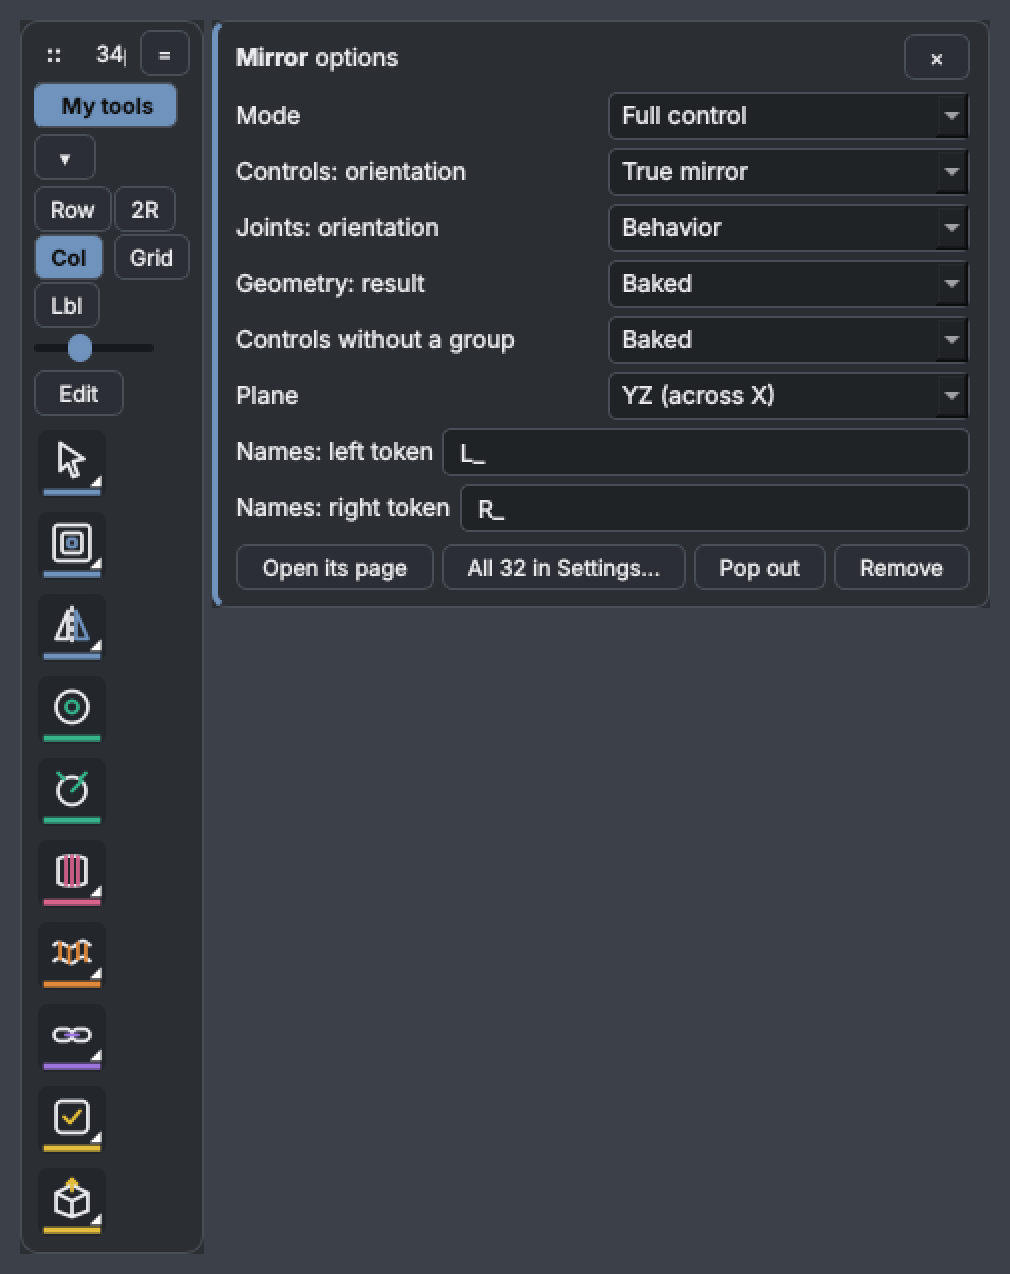
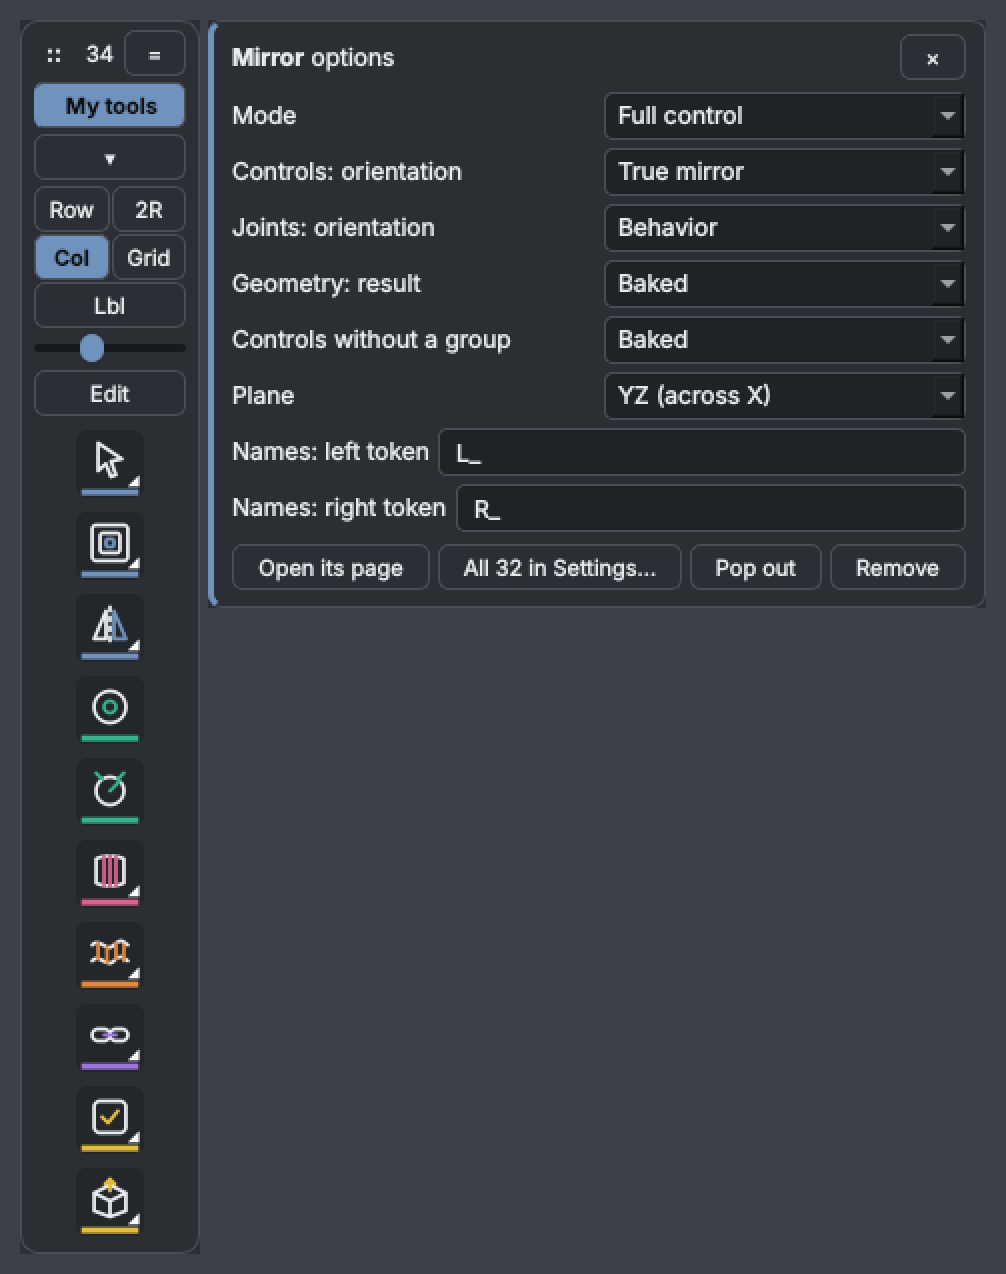
5.7.9 (in progress): the bar's column even; notes
Claude-Session: https://claude.ai/code/session_01XEQS6GUEdNtS6ejnva6duF

diff --git a/gus_rigtool/newui/favourites.py b/gus_rigtool/newui/favourites.py
@@ -576,13 +576,17 @@ class FavBar(QtWidgets.QWidget):
         root.setContentsMargins(7, 5, 7, 6)
         root.setSpacing(5)
         shape = self.shape()
+        lab = self.labels()                              # a column: one even width for everything (5.7.9, Gus)
+        self.rail = max((max(self.wanted_size() + 6, 52) if lab else self.wanted_size() + 4), 76)
         self.chrome = self._chrome(shape)
         root.addWidget(self.chrome)
         self.tiles = QtWidgets.QWidget()
         self.grid = QtWidgets.QGridLayout(self.tiles)
         self.grid.setContentsMargins(0, 0, 0, 0)
         self.grid.setSpacing(2)
-        self.grid.setAlignment(Qt.AlignLeft | Qt.AlignTop)      # the tiles side by side, not spread out
+        self.grid.setAlignment((Qt.AlignHCenter if shape == "col" else Qt.AlignLeft) | Qt.AlignTop)
+        if shape == "col":
+            self.tiles.setFixedWidth(self.rail)
         root.addWidget(self.tiles)
         if not hasattr(self, "strip"):
             self.strip = QtWidgets.QFrame(self, Qt.Tool | Qt.FramelessWindowHint)
@@ -658,16 +662,15 @@ class FavBar(QtWidgets.QWidget):
         lb.setChecked(self.labels())
         ml.addWidget(lb, 2 if col else 0, 0 if col else 5, 1, 2 if col else 1)
         lay.addWidget(modes)
-        if col:                                           # a column stays narrow (the mock-up's ~74 px rail)
+        if col:                                           # a column: everything the rail's width, evenly
             for w in list(self.mode_buttons.values()) + [lb]:
-                w.setStyleSheet("QToolButton { padding: 2px 3px; }")
-            box.setMaximumWidth(max(self.wanted_size() + 30, 78))
+                w.setStyleSheet("QToolButton { padding: 2px 0px; }")
         self.slider = QtWidgets.QSlider(Qt.Horizontal)
         self.slider.setRange(SIZE_MIN, SIZE_MAX)
         self.slider.setSingleStep(2)
         self.slider.setPageStep(4)
         self.slider.setValue(self.wanted_size())
-        self.slider.setFixedWidth(60 if col else 80)
+        self.slider.setFixedWidth(self.rail if col else 80)
         self.slider.setFocusPolicy(Qt.NoFocus)
         self.slider.setToolTip("The tiles' size (or Ctrl + mouse wheel over the bar)")
         self.slider.sliderReleased.connect(lambda: self.set_size(self.slider.value()))
@@ -675,6 +678,15 @@ class FavBar(QtWidgets.QWidget):
         if editable():
             lay.addWidget(self._small("Done" if self.editing else "Edit", "Edit this profile: × takes one off; "
                                       "choose more in the menu", lambda: self.set_editing(not self.editing)))
+        if col:
+            box.setFixedWidth(self.rail)
+            for b in box.findChildren(QtWidgets.QToolButton):
+                if b.parentWidget() is not top:
+                    b.setSizePolicy(QtWidgets.QSizePolicy.Expanding, QtWidgets.QSizePolicy.Fixed)
+                    b.setMinimumWidth(0)
+            th.setSpacing(2)
+            self.readout.setAlignment(Qt.AlignCenter)
+            th.setStretch(1, 1)
         return box
 
     def _small(self, text, tip, fn, checkable=False):

diff --git a/DISCUSSIONS.md b/DISCUSSIONS.md
@@ -247,6 +247,10 @@ the code; this file has what Gus said, decided and wants next.
   tools); shelf keeps Build and Publish (Build rig out). He asked if I understood his Gemini bar (profiles pills,
   Row/2R/Col/Grid, size slider + Ctrl+wheel, labels, right-click settings strip, auto-shrink, NoFocus) - answered;
   updated 5.7.9 plan + lighter list sent, waiting for his OK.
+- 2026-11-21: Gus: "1 yes (plan); 2 rigtool with mockup layout (Rigtool colours, his mock-up's layout); 4 options
+  fold (right-click strip = a tool's main options)". Lighter items not picked: going with my recommendation (1, 2, 4;
+  the Checker rewrite in its own release). Bar + Home built and shown as pictures (design/screens579). Gus on the
+  column: "too much space on the right, it should be even and proportional" - fixed (one width, tiles centred).
 - After the Rigtool is "completely working and polished": plan the Animtool (5.8) from what we discussed + his
   Gemini UI/UX ideas, combined. Then 5.8 Animtool from Gus's
   references (design/references) - check its right-click options against the real tools (no new tools) and the
